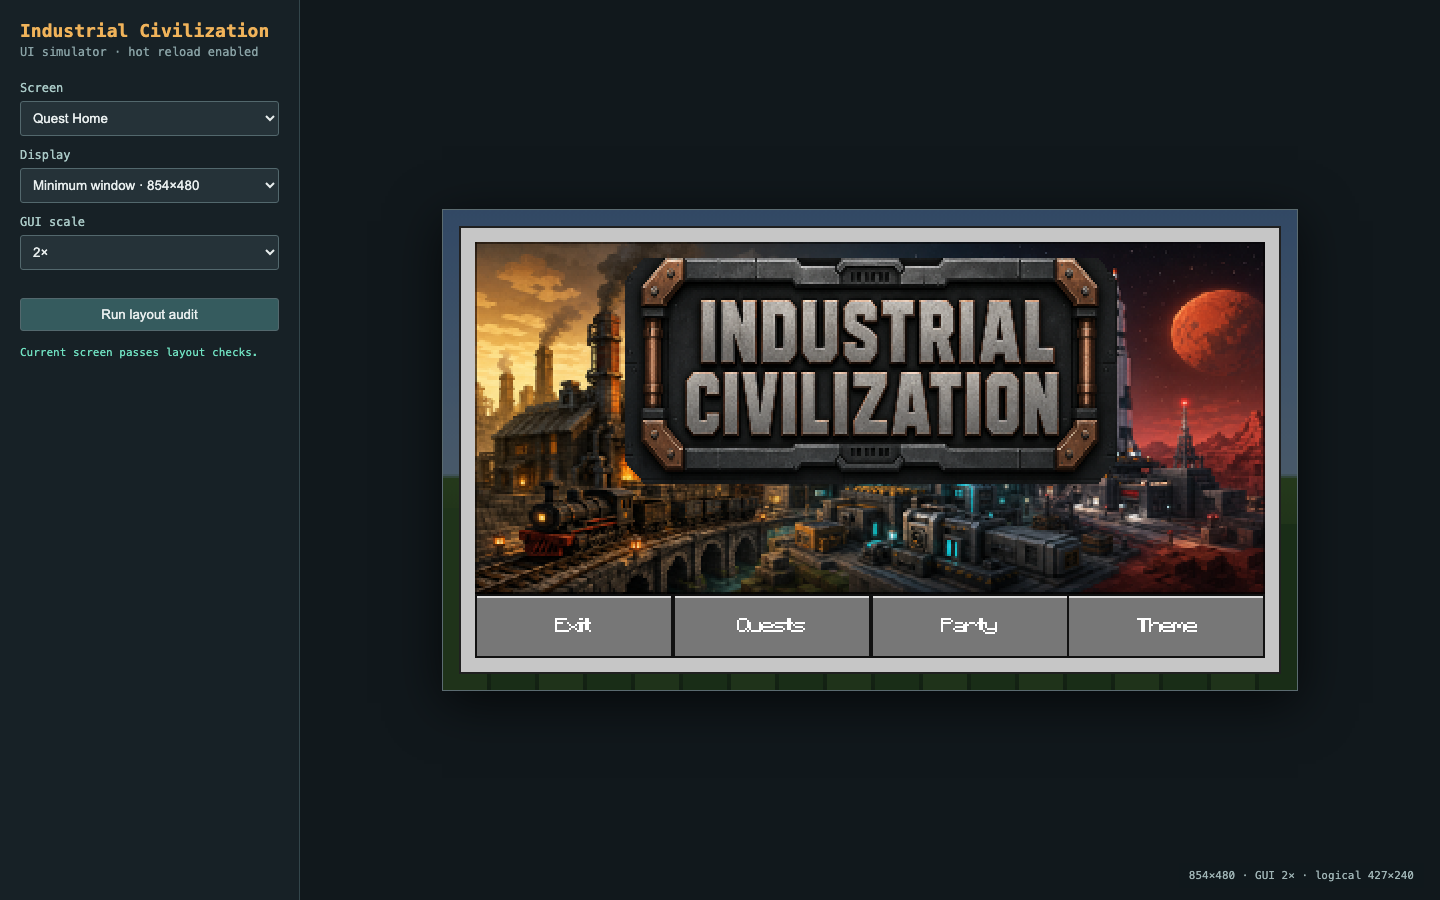
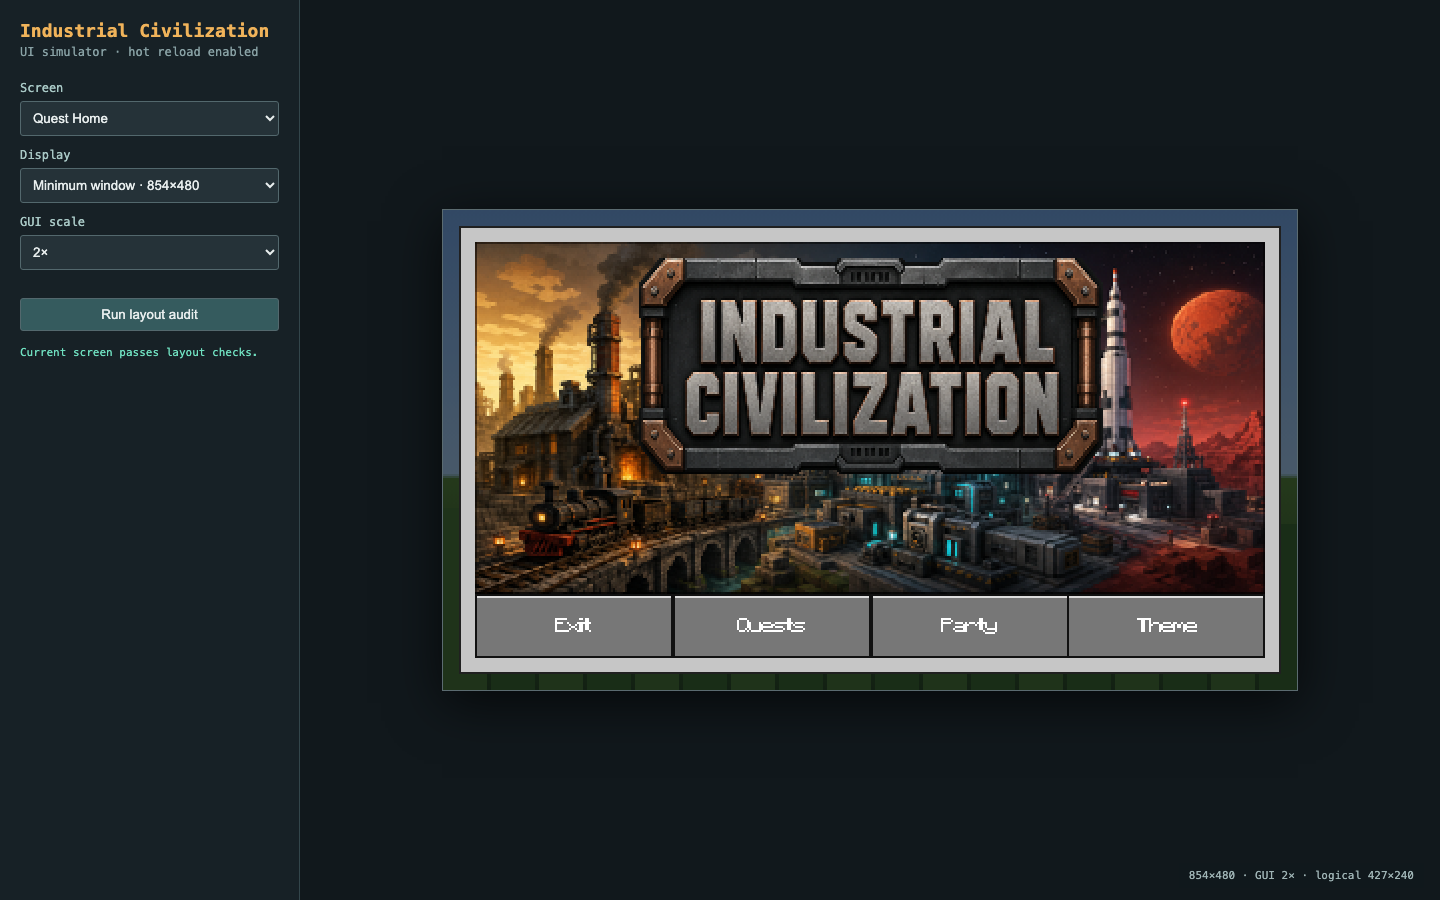
Tighten title plaque transparency

diff --git a/tools/crop_title_card.py b/tools/crop_title_card.py
@@ -3,29 +3,23 @@
 
 from pathlib import Path
 
-from PIL import Image, ImageChops, ImageDraw
+from PIL import Image, ImageChops
 
 
 ROOT = Path(__file__).resolve().parents[1]
 PACK_LOGO = ROOT / "resources/industrialcivilizationcore/textures/mainmenu/industrial_civilization_logo.png"
 MOD_LOGO = ROOT / "development/IndustrialCivilizationCore/src/main/resources/assets/industrialcivilizationcore/textures/mainmenu/industrial_civilization_logo.png"
 QUEST_HOME = ROOT / "resources/industrialcivilizationcore/textures/gui/quest_home_v2.png"
-
-# Native-pixel outline of the plaque's outer metal silhouette. The mask keeps
-# every original plaque pixel while discarding only the rectangular matte that
-# surrounded it in the 512x256 source canvas.
-PLAQUE_OUTLINE = [
-    (29, 15), (483, 15), (502, 38), (502, 218),
-    (483, 240), (29, 240), (10, 218), (10, 38),
-]
+PLAQUE_MASK = ROOT / "resources/industrialcivilizationcore/textures/mainmenu/industrial_civilization_logo_mask.png"
 
 
 def plaque_cutout(source: Image.Image) -> Image.Image:
     image = source.convert("RGBA")
     if image.size != (512, 256):
         raise ValueError(f"expected 512x256 title card, got {image.size}")
-    mask = Image.new("L", image.size, 0)
-    ImageDraw.Draw(mask).polygon(PLAQUE_OUTLINE, fill=255)
+    mask = Image.open(PLAQUE_MASK).convert("L")
+    if mask.size != image.size:
+        raise ValueError(f"expected 512x256 title-card mask, got {mask.size}")
     alpha = ImageChops.multiply(image.getchannel("A"), mask)
     image.putalpha(alpha)
     return image

diff --git a/tools/validate_runtime_content.py b/tools/validate_runtime_content.py
@@ -96,9 +96,15 @@ check(gui.getpixel((15, 60))[:3] == (123, 137, 142)
 check(gui.getpixel((176, 49))[3] == 255, "progress overlay strip exists")
 
 title_logo = Image.open(ASSETS / "textures/mainmenu/industrial_civilization_logo.png").convert("RGBA")
+title_mask = Image.open(ROOT / "resources/industrialcivilizationcore/textures/mainmenu/industrial_civilization_logo_mask.png").convert("L")
 check(title_logo.size == (512, 256), "main-menu title card remains 512x256")
+check(title_mask.size == title_logo.size, "main-menu title-card silhouette mask matches the source canvas")
 check(all(title_logo.getpixel(point)[3] == 0 for point in ((0, 0), (511, 0), (0, 255), (511, 255))),
       "main-menu title card exterior matte is transparent")
+check(all(title_logo.getpixel(point)[3] == 0 for point in ((10, 128), (501, 128), (256, 5), (256, 245))),
+      "main-menu title card removes the rectangular matte along every edge")
+check(all(title_logo.getpixel(point)[3] >= 250 for point in ((60, 20), (30, 128), (480, 128), (256, 220))),
+      "main-menu title card preserves the exterior metal frame")
 check(title_logo.getpixel((256, 128))[3] == 255,
       "main-menu title card preserves its opaque plaque interior")
 
